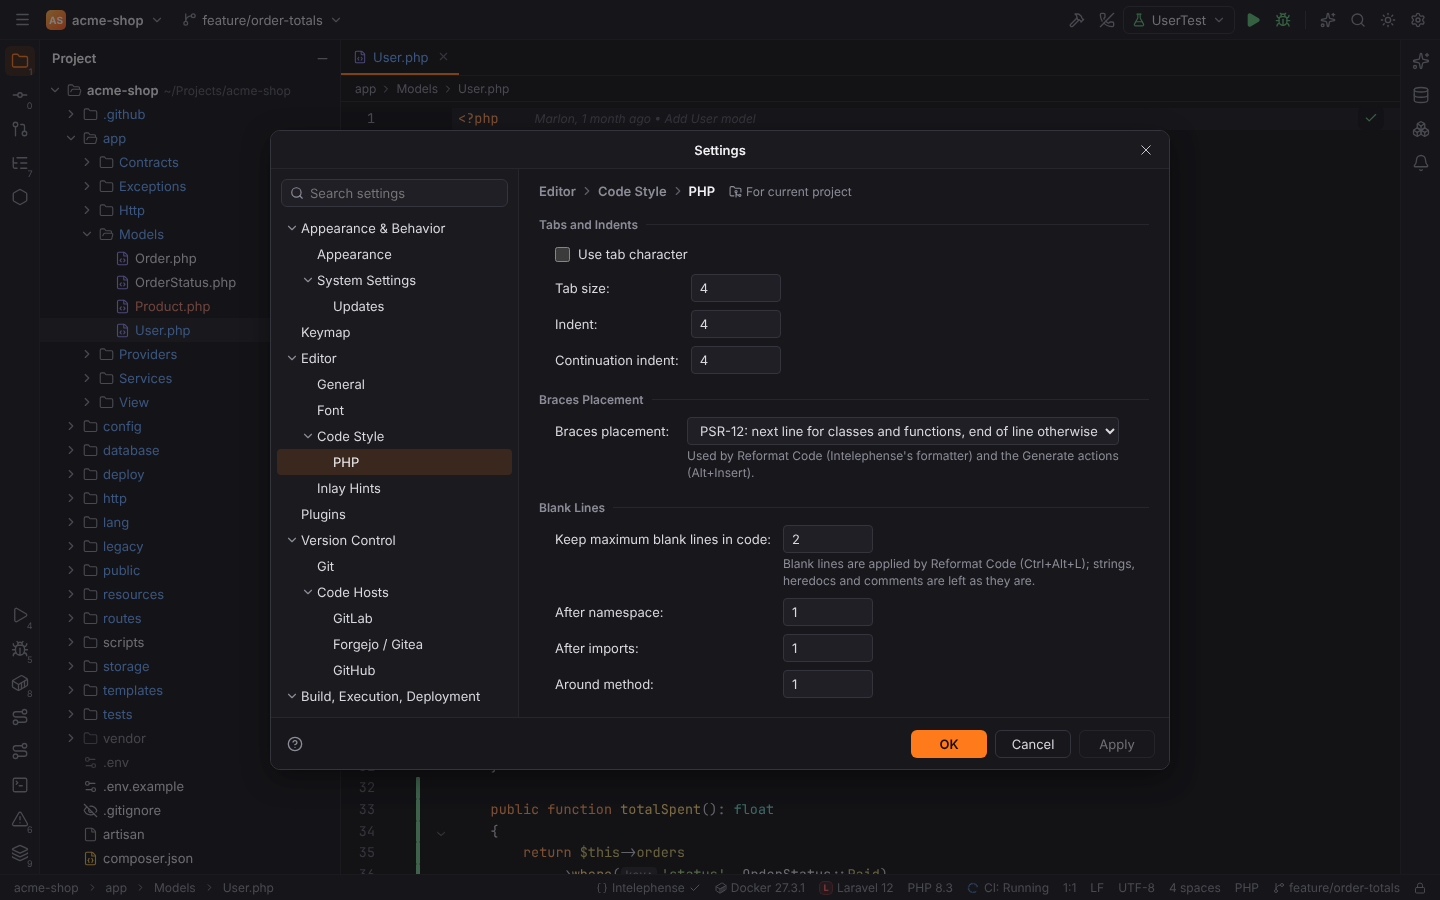
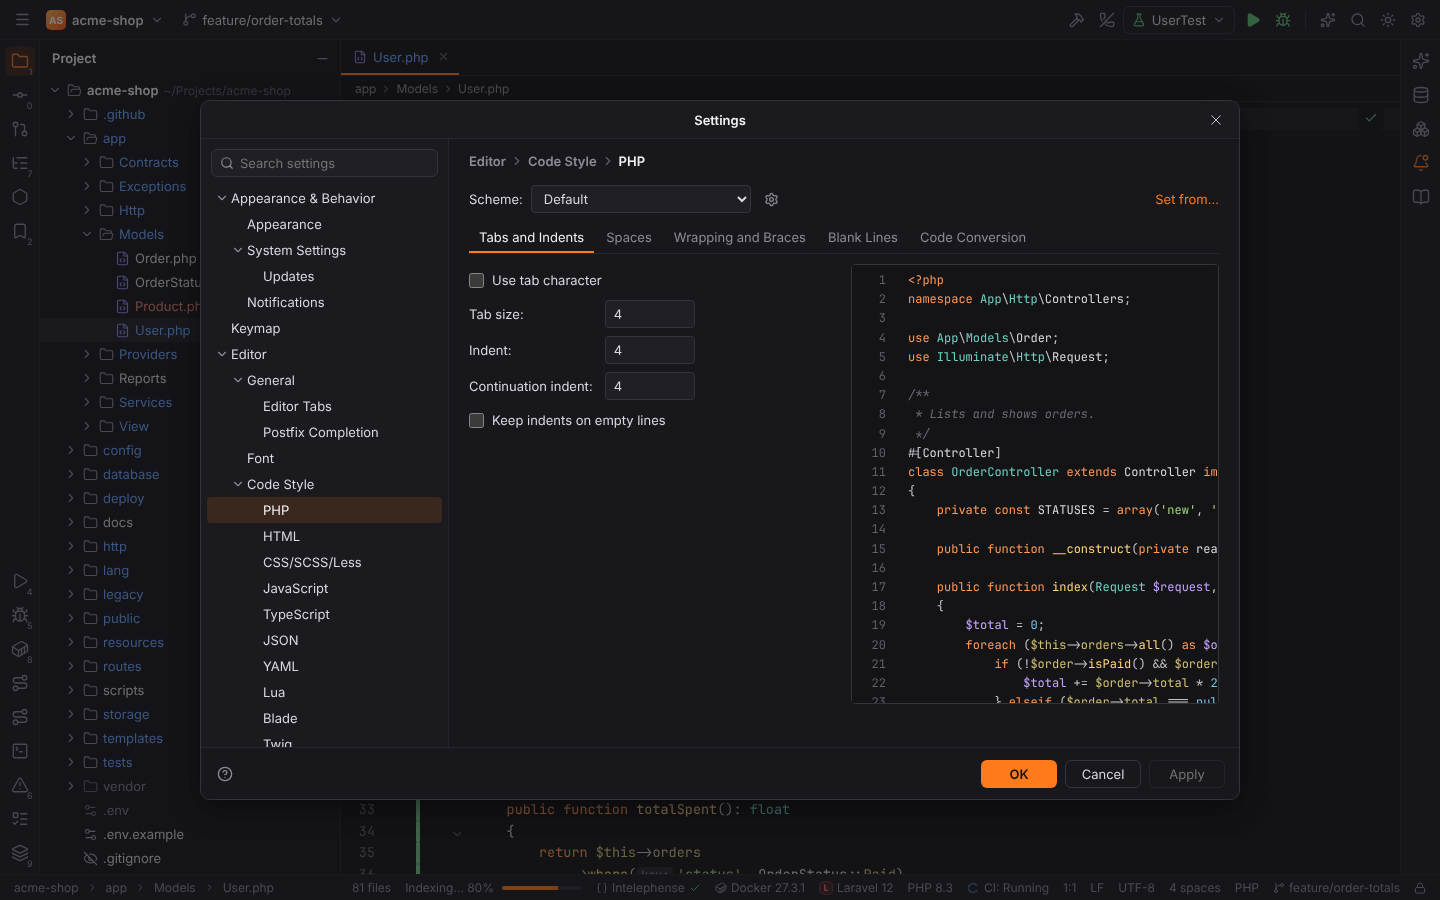
docs: add code style screenshots, store tests and a larger Settings dialog

diff --git a/app/ui/src/features/codeStyle/store.test.ts b/app/ui/src/features/codeStyle/store.test.ts
@@ -1,0 +1,80 @@
+import { describe, expect, it } from "vitest";
+import "@/mock/settingsMock";
+import "@/mock/codeStyleMock";
+import { codeStyleApi } from "@/ipc/codeStyle";
+import { settingsApi } from "@/ipc/settings";
+import {
+  applyDraft,
+  applyPreset,
+  codeStyle,
+  copyAs,
+  copyToProject,
+  current,
+  deleteCurrent,
+  discardDraft,
+  freeName,
+  hasChanges,
+  loadSchemes,
+  nameProblem,
+  pageModified,
+  resetPage,
+  setValue,
+  valueOf,
+} from "./store";
+
+describe("code style schemes (browser mode)", () => {
+  it("edits, resets and applies schemes", async () => {
+    await loadSchemes();
+    expect(current()?.id).toBe("default");
+    expect(valueOf("php", "indent")).toBe(4);
+    expect(hasChanges()).toBe(false);
+
+    setValue("php", "indent", 2);
+    expect(pageModified("editor.code-style.php")).toBe(true);
+    expect(pageModified("editor.code-style.json")).toBe(false);
+    expect(pageModified("editor.code-style")).toBe(false);
+    resetPage("editor.code-style.php");
+    expect(hasChanges()).toBe(false);
+
+    // Set from… WordPress, then copy to the project and apply.
+    applyPreset("php", "wordpress");
+    expect(valueOf("php", "useTabs")).toBe(true);
+    expect(valueOf("php", "codeConversion.arraySyntax")).toBe("long");
+    copyToProject();
+    expect(current()?.level).toBe("project");
+    expect(pageModified("editor.code-style")).toBe(true);
+    await applyDraft();
+    expect(hasChanges()).toBe(false);
+    const all = await settingsApi.getAll();
+    // Set from… changed the Default scheme; the Project scheme only stores what differs from
+    // it, so the project keeps just the selection.
+    expect(all.user["php.codeStyle.useTabs"]).toBe(true);
+    expect(all.project["php.codeStyle.useTabs"]).toBeUndefined();
+    expect(all.project["editor.codeStyle.scheme"]).toBe("project");
+    expect((await codeStyleApi.schemes()).selected).toBe("project");
+
+    // A new IDE scheme, then delete it again before applying.
+    expect(freeName("Project")).toBe("Project");
+    copyAs("Team");
+    expect(current()?.name).toBe("Team");
+    expect(nameProblem("team")).toMatch(/already exists/);
+    deleteCurrent();
+    expect(current()?.id).toBe("default");
+    discardDraft();
+    expect(codeStyle.draft?.selected).toBe("project");
+
+    // Clean up the shared mock layers.
+    applyPreset("php", "psr12");
+    await applyDraft();
+  });
+
+  it("previews and round-trips exports", async () => {
+    const values = { "php.useTabs": true, "php.tabSize": 4, "php.indent": 4 };
+    const preview = await codeStyleApi.preview("php", values);
+    expect(preview).toContain("\n\tpublic function index(");
+    const xml = await codeStyleApi.export("Tabs", values, "xml");
+    const back = await codeStyleApi.import({ text: xml });
+    expect(back.name).toBe("Tabs");
+    expect(back.values["php.useTabs"]).toBe(true);
+  });
+});

diff --git a/app/ui/src/features/codeStyle/CodeStylePages.tsx b/app/ui/src/features/codeStyle/CodeStylePages.tsx
@@ -7,7 +7,7 @@
 import { createEffect, createMemo, createSignal, For, Match, on, onCleanup, onMount, Show, Switch } from "solid-js";
 import { Compartment, EditorState } from "@codemirror/state";
 import { EditorView, lineNumbers } from "@codemirror/view";
-import { Settings2 } from "lucide-solid";
+import { Settings } from "lucide-solid";
 import { isTauri } from "@/ipc";
 import { codeStyleApi, type CodeStyleExportFormat, type CodeStyleLanguage, type CodeStyleOption, type CodeStyleValue } from "@/ipc/codeStyle";
 import { forgeEditorTheme, forgeHighlight } from "@/editor/forgeTheme";
@@ -189,7 +189,7 @@ function SchemeBar(props: { lang?: CodeStyleLanguage }) {
         </Show>
       </select>
       <button class="icon-btn cs-gear" title="Show Scheme Actions" onClick={(e) => openMenu(e, schemeMenu())}>
-        <Settings2 size={15} />
+        <Settings size={15} />
       </button>
       <Show when={props.lang?.presets.length}>
         <button class="set-link cs-set-from" onClick={(e) => openMenu(e, presetMenu(props.lang!))}>

diff --git a/app/ui/src/features/codeStyle/codeStyle.css b/app/ui/src/features/codeStyle/codeStyle.css
@@ -54,7 +54,7 @@
   flex: 1;
   min-height: 0;
   display: grid;
-  grid-template-columns: minmax(250px, 0.9fr) minmax(280px, 1.1fr);
+  grid-template-columns: minmax(300px, 1fr) minmax(300px, 1fr);
   gap: 14px;
   align-items: start;
 }
@@ -68,7 +68,11 @@
   grid-template-columns: max-content minmax(0, 1fr);
 }
 .cs-options .set-select {
-  min-width: 150px;
+  min-width: 140px;
+  max-width: 100%;
+}
+.cs-options .set-line > :not(.set-label) {
+  min-width: 0;
   max-width: 100%;
 }
 .cs-row.modified .set-label,

diff --git a/app/ui/src/features/settings/index.tsx b/app/ui/src/features/settings/index.tsx
@@ -68,8 +68,8 @@ registerCommand({ id: "settings.open", title: "Settings…", category: "File", r
 registerDialog<SettingsDialogProps, SettingsDialogResult>({
   id: SETTINGS_DIALOG,
   title: "Settings",
-  width: 900,
-  height: 640,
+  width: 1040,
+  height: 700,
   minWidth: 640,
   minHeight: 420,
   component: SettingsDialog,

diff --git a/crates/forge-codestyle/src/model.rs b/crates/forge-codestyle/src/model.rs
@@ -478,7 +478,7 @@ fn general() -> LanguageSpec {
         &["general", "formatter"],
         b,
         Vec::new(),
-        "sample.txt",
+        "sample.php",
         "",
         "",
     );
